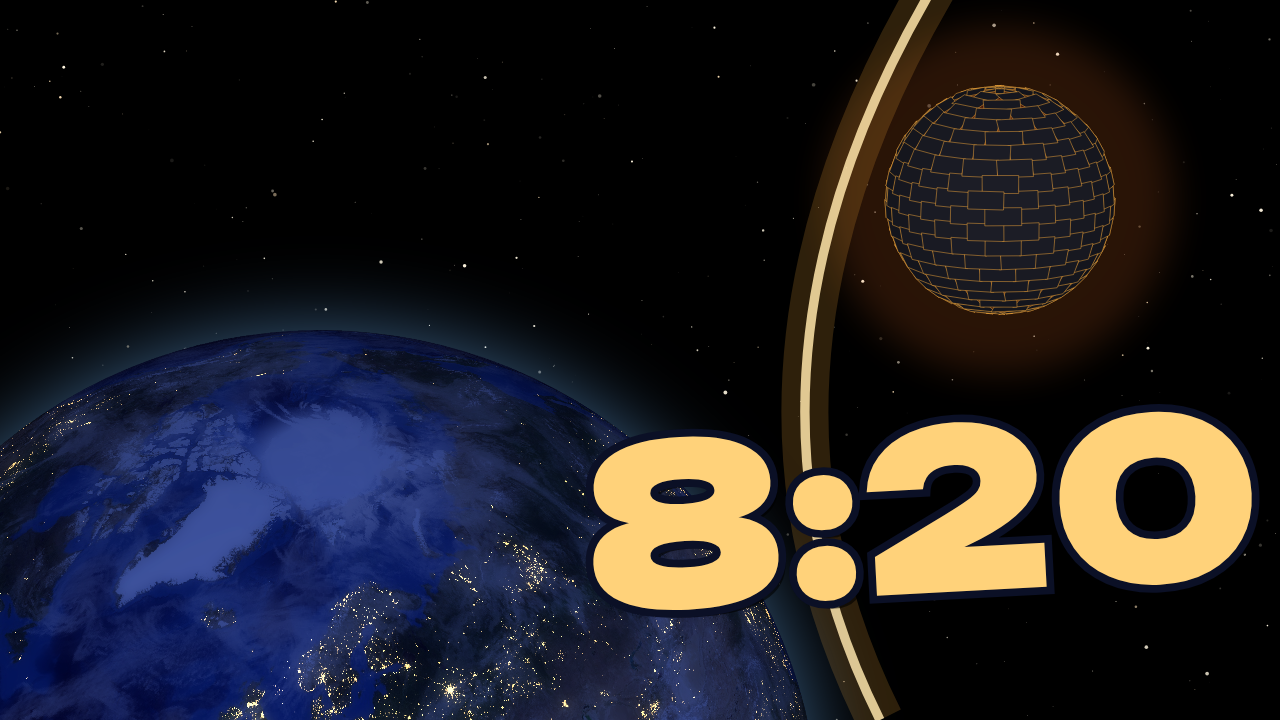
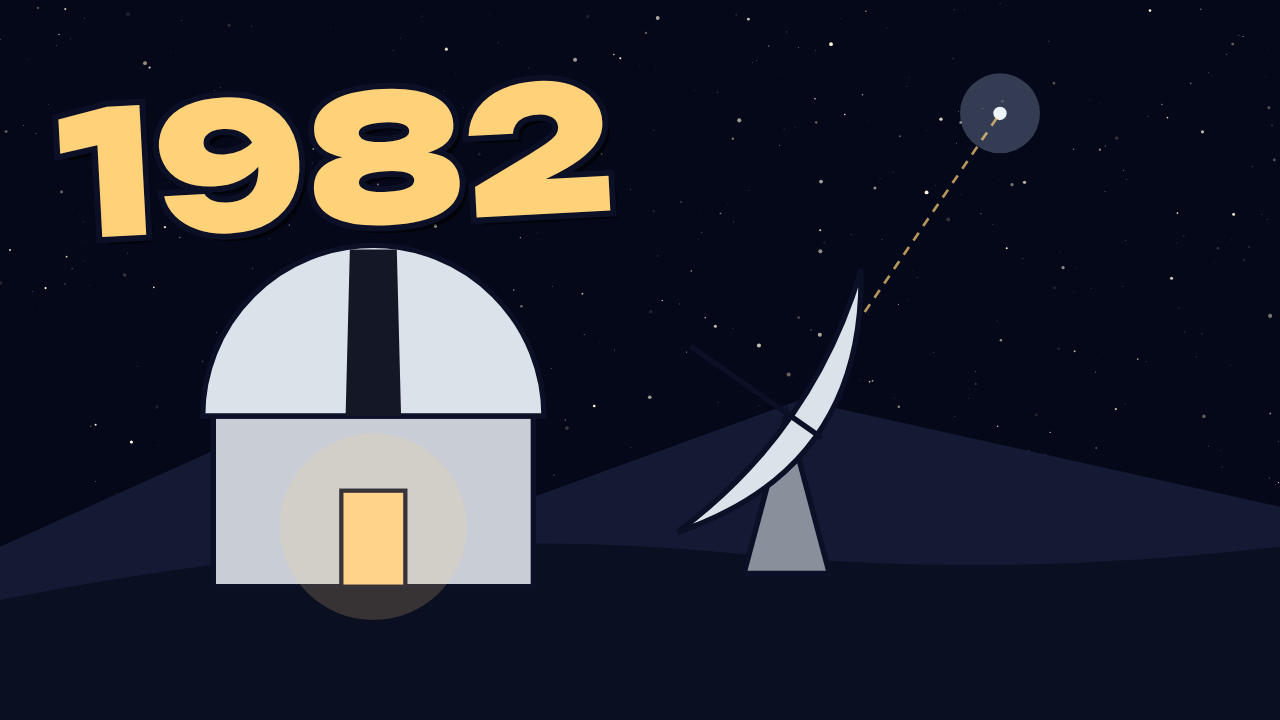
v3 thumbnails (HE KNEW, 1982), logic audit for the 44-year knock, README
Claude-Session: https://claude.ai/code/session_017eRNjaGH56ZJV1uMt2bRFo

diff --git a/src/env/sun/thumbnail.tsx b/src/env/sun/thumbnail.tsx
@@ -111,52 +111,64 @@ const BigWords: React.FC<{words: {t: string; size: number; col: string}[]; x: nu
   </g>
 );
 
-/** Thumbnail B: Mira's face in the gold of the one-second Sun. "1 SECOND". */
+/** Thumbnail B: one face, two times. Left, old Mr. Ito in starlight; right, the same man at 30 in a 1982 sunrise. "HE KNEW". */
 export const SunThumbnailB: React.FC = () => (
   <AbsoluteFill style={{background: '#000'}}>
     <svg viewBox="0 0 1920 1080" width="100%" height="100%">
       <defs>
-        <linearGradient id="goldsky" x1="0" y1="0" x2="0" y2="1">
-          <stop offset="0" stopColor="#FFE3A0" />
-          <stop offset="0.45" stopColor="#FFB13B" />
-          <stop offset="1" stopColor="#5A2A10" />
+        <clipPath id="leftHalf">
+          <rect x={0} y={0} width={760} height={1080} />
+        </clipPath>
+        <clipPath id="rightHalf">
+          <rect x={760} y={0} width={1160} height={1080} />
+        </clipPath>
+        <linearGradient id="dawnTh" x1="0" y1="0" x2="0" y2="1">
+          <stop offset="0" stopColor="#F2B07A" />
+          <stop offset="1" stopColor="#FFE2A8" />
         </linearGradient>
-        <radialGradient id="facelight" cx="0.5" cy="0.5" r="0.5">
-          <stop offset="0" stopColor="#FFE9B0" stopOpacity={0.55} />
-          <stop offset="1" stopColor="#FFB13B" stopOpacity={0} />
-        </radialGradient>
       </defs>
-      <rect width={1920} height={1080} fill="url(#goldsky)" />
-      <circle cx={1660} cy={150} r={260} fill="#FFFBE8" opacity={0.45} filter="blur(30px)" />
-      <circle cx={1660} cy={150} r={95} fill="#FFFDF4" />
-      {Array.from({length: 12}, (_, i) => {
-        const a = (i / 12) * Math.PI * 2;
-        return <path key={i} d={`M${1660 + Math.cos(a) * 120},${150 + Math.sin(a) * 120} L${1660 + Math.cos(a) * 1600},${150 + Math.sin(a) * 1600}`} stroke="#FFF6D0" strokeWidth={30} opacity={0.12} />;
-      })}
-      <FrozenSkyline base={1000} seed={31} col="#7A4A22" />
-      <Toon d={CAST.mira} s={state(700, 1370, 6.4, 'awe', {turn: 0.3, look: [0.8, -1], outfit: 'cold', pose: POSES.stand})} />
-      <ellipse cx={720} cy={520} rx={420} ry={360} fill="url(#facelight)" style={{mixBlendMode: 'screen'}} />
-      <BigWords words={[{t: '1', size: 360, col: '#FFFFFF'}, {t: 'SECOND', size: 170, col: '#FFFFFF'}]} x={1860} y={300} anchor="end" tilt={-4} />
+      <g clipPath="url(#leftHalf)">
+        <rect width={1920} height={1080} fill="#060A1E" />
+        <Stars frame={0} count={300} w={1920} h={1080} seed={11} maxR={2.4} />
+        <Toon d={CAST.ito} s={state(760, 1640, 5.59, 'sad', {turn: 0.1, look: [0.2, 0.2], outfit: 'cold'})} />
+      </g>
+      <g clipPath="url(#rightHalf)">
+        <rect width={1920} height={1080} fill="url(#dawnTh)" />
+        <circle cx={1700} cy={260} r={130} fill="#FFFBE8" />
+        <Toon d={CAST.itoYoung} s={state(760, 1640, 5.2, 'smile', {turn: 0.1, look: [0.2, 0.2], outfit: 'home'})} />
+      </g>
+      <path d="M760,0 L760,1080" stroke="#FFF6E0" strokeWidth={8} />
+      <BigWords words={[{t: 'HE', size: 230, col: '#FFFFFF'}, {t: 'KNEW', size: 230, col: '#FFB13B'}]} x={1880} y={480} anchor="end" tilt={-3} />
     </svg>
   </AbsoluteFill>
 );
 
-/** Thumbnail C: the night side of Earth, the caged Sun beyond it, the last light on its way. "8:20". */
+/** Thumbnail C: a small observatory on a mountain at night, one window lit, the dish aimed at one star. "1982". */
 export const SunThumbnailC: React.FC = () => (
   <AbsoluteFill style={{background: '#000'}}>
-    <svg viewBox="0 0 1920 1080" width="100%" height="100%" style={{position: 'absolute'}}>
-      <Stars frame={0} count={420} w={1920} h={1080} seed={9} maxR={2.4} />
-      <circle cx={1500} cy={300} r={260} fill="#FF7A2A" opacity={0.16} filter="blur(28px)" />
-      <Shell cx={1500} cy={300} r={170} turn={1} spin={0.5} seam={0.9} frame={10} />
-      {/* the last light: a bright wavefront between them, darkness behind it */}
-      <path d="M1320,1080 Q1060,560 1400,-20" stroke="#FFF1C2" strokeWidth={14} fill="none" opacity={0.85} />
-      <path d="M1320,1080 Q1060,560 1400,-20" stroke="#FFB13B" strokeWidth={70} fill="none" opacity={0.18} />
-    </svg>
-    <div style={{position: 'absolute', left: -180, top: 330, filter: 'drop-shadow(0 0 40px rgba(111,184,255,0.5))'}}>
-      <PhotoGlobe size={1000} center={[10, 42]} sun={null} lights={1} ice={80} nightLift={0.6} />
-    </div>
-    <svg viewBox="0 0 1920 1080" width="100%" height="100%" style={{position: 'absolute'}}>
-      <BigWords words={[{t: '8:20', size: 330, col: '#FFD27A'}]} x={1880} y={560} anchor="end" tilt={-3} />
+    <svg viewBox="0 0 1920 1080" width="100%" height="100%">
+      <rect width={1920} height={1080} fill="#050818" />
+      <Stars frame={0} count={600} w={1920} h={1080} seed={41} maxR={2.6} />
+      <circle cx={1500} cy={170} r={10} fill="#FFFFFF" />
+      <circle cx={1500} cy={170} r={60} fill="#BFD8FF" opacity={0.25} />
+      <path d="M1180,640 L1500,170" stroke="#FFD27A" strokeWidth={4} strokeDasharray="14 12" opacity={0.7} />
+      <path d="M0,820 L400,640 L760,760 L1200,600 L1920,760 L1920,1080 L0,1080 Z" fill="#141A33" />
+      <path d="M0,900 Q600,780 1100,830 Q1500,870 1920,820 L1920,1080 L0,1080 Z" fill="#0B0F22" />
+      <g transform="translate(560,880) scale(1.6)">
+        <rect x={-150} y={-160} width={300} height={160} fill="#C9CED6" stroke="#0B1026" strokeWidth={5} />
+        <path d="M-160,-160 A160,160 0 0 1 160,-160 Z" fill="#DCE2EA" stroke="#0B1026" strokeWidth={5} />
+        <path d="M-22,-316 L22,-316 L26,-160 L-26,-160 Z" fill="#141826" />
+        <rect x={-30} y={-90} width={60} height={90} fill="#FFD58A" stroke="#0B1026" strokeWidth={4} />
+      </g>
+      <g transform="translate(1180,860) scale(1.6)">
+        <path d="M-40,0 L0,-150 L40,0 Z" fill="#8A8F9C" stroke="#0B1026" strokeWidth={5} />
+        <g transform="translate(0,-150) rotate(-55)">
+          <path d="M-150,-20 Q0,90 150,-20 Q0,30 -150,-20 Z" fill="#DCE2EA" stroke="#0B1026" strokeWidth={5} />
+          <path d="M0,40 L0,-110" stroke="#0B1026" strokeWidth={5} />
+        </g>
+      </g>
+      <circle cx={560} cy={790} r={140} fill="#FFD58A" opacity={0.18} />
+      <BigWords words={[{t: '1982', size: 260, col: '#FFD27A'}]} x={80} y={120} anchor="start" tilt={-3} />
     </svg>
   </AbsoluteFill>
 );

diff --git a/docs/10-sun01-logic-audit.md b/docs/10-sun01-logic-audit.md
@@ -1,4 +1,4 @@
-# 10 · File 001 logic audit — "The Sun Went Out" (v2.1)
+# 10 · File 001 logic audit — "The Sun Went Out" (v3)
 
 Every question a sharp viewer could type into the comments, answered before we publish. If a claim
 in the script can't be defended here, it gets cut or fixed. Script: `episodes/sun01-the-sun-went-out/script.ts`.
@@ -10,6 +10,17 @@ every element of it turned and opened at once. The Sun's **mass** is still there
 **light** is caught by the shell and beamed away, so Earth freezes. The shell has to shed a small fraction of
 that power as waste heat, which is why a thermal camera can see it. The family deduces each of these facts from
 real evidence, in order.
+
+## v3 story logic: the knock (the episode's twist)
+| Question a viewer will ask | Answer |
+|---|---|
+| Why does the shell close *now*? | In 1982 young Haruki Ito found three straight lines in eclipse plates (1919 onward), worked out that the swarm's rings share one axis pointing at a star **22 light-years** away, and sent it a radio knock (1, 2, 3). Radio travels at light speed: 22 years there, 22 back. 1982 + 44 = **2026**. The shell closed when the answer arrived. |
+| Why was Ito ready at 6:52? | He knew the year, not the day. N: "a bag he'd packed the night before"; he watched every sunrise for 44 years to check it was still there. |
+| Why does the count only come on Day 365? | It doesn't. It has been knocking back since Day 0, on the frequency Ito used in 1982. Nobody's radio was listening there. Ito spent the year building a receiver ("Something to listen with") and points it at the Sun on Day 365. Then he tells the world and everyone retunes. |
+| Is it counting planets? | That is the family's first (natural) reading: 1, 2, 3 then silence, so Mercury, Venus, Earth. It is actually Ito's own rhythm (1 / 2-2 / 3-3-3) echoed back. The audio and the Morse close-ups match on purpose. |
+| Where does the beam go? | To that same star, out of the planets' plane. Ito recognises it on Day 300 and whispers "Twenty-two". |
+| Is the timeline consistent for Ito? | 30 in 1982, so 74 in 2026, so he is still a retired astronomer and still has the brass telescope (shown in both timelines). |
+| What about the earlier logic (Venus, tides, the slats)? | Unchanged and still audited below. The 8:20 race and the one-second Sun were cut in v3: the family could not see the first, and the second was unclear. |
 
 ## The shell: how something that size can close in one second (v2.1)
 The obvious objection: *the Sun is enormous; nobody could build a shell around it in a morning.* Correct, and
@@ -88,7 +99,7 @@ Notes:
 - **Aurora.** Coronal mass ejections take 1–4 days to arrive. A storm launched about 1 day before the shell closed arrives on Day 3, which matches "left the Sun four days ago" (Day 3 + 1 day before). Earth's magnetic field is unaffected, so an aurora is possible. The city is at about 55° N and the storm is strong, so a visible overhead aurora is plausible (as at 55° N in May 2024).
 - **The Moon goes dark.** It has no light of its own. A waning crescent in the morning sky becomes a black sliver against the stars (rendered as a faint earthshine-free silhouette).
 - **The fire.** On Day 7 the neighbour behind door 3B (same landing) burns furniture indoors: smoke you can see, carbon monoxide you can't (the real winter killer). Everyone evacuates.
-- **The one-second Sun.** One band of the shell turns back open for 1 s; the light arrives about 8 minutes later, hence "Eight minutes later". The narrator cuts from the space shot to the surface, matching the delay.
+- **The one-second Sun** was cut in v3 (it was unexplained on screen).
 - **Phones.** The networks jam from load in the first minute (it happens at every mass event). The grid stays up until Day 7, so phones still charge.
 - **Lighting.** After 06:52 it is always night. On-screen light sources are only torches, candles, streetlights (until Day 7), the aurora, station lamps, the radio dial, the thermal screen and the one-second flash. No unmotivated daylight.
 

diff --git a/README.md b/README.md
@@ -4,18 +4,22 @@
 
 A YouTube channel of animated space-science survival stories built for **8–12 minute episodes** (mid-roll eligible). Every video is made from code with [Remotion](https://remotion.dev): the narration is voiced locally with Kokoro-82M (Apache-2.0), and the score is synthesised from scratch.
 
-**Launch episode: File 001, "The Sun Went Out. Here's Your Day 1 to Day 365" (v2.1)** is in `renders/`:
-- `sun01.mp4`: about 8:40, 1080p web copy with soft English subtitles. The upload master `sun01-hq.mp4` is git-ignored.
-- **The story:** at 6:44 a shell around the Sun closes. It wasn't built that morning: it had been there for a century, furled edge-on like an open blind, and someone closed it. You, your sister Mira, Biscuit the dog and Mr. Ito, the astronomer upstairs, survive the freeze and solve it in six reveals, each proven from real evidence: light delay, tides, a thermal camera, the blind, an energy beam, a signal. It ends on a cliffhanger into Part 2.
-- **Built to the genre's numbers:**
-  - 140 shots at about 3.6 s each
-  - a development every 30 s or less, two mid-video re-hooks, and 14 laughs
-  - true whip pans, a Day tag with a year bar, and characters who look at whoever is talking
-  - every prop drawn to real-world scale (see `ScaleLab`)
-  - Foley, a real NASA Earth, and voices by Kokoro (Mr. Ito on a British voice)
-  - an original synthesised score with a recurring "shell" motif
-- `sun01.srt` (captions), `sun01-described.srt` (with stage directions), three thumbnails for YouTube's Test & Compare (`sun01-thumbnail.png`, `-b`, `-c`), and `sun01-metadata.md` (title, description with chapters and 14 science sources, tags, mid-roll times, end-screen layout, pinned comment)
-- Format, cast and review gates: [`docs/09-series-bible.md`](docs/09-series-bible.md). Logic audit, shell physics and the Episode 2 answer: [`docs/10-sun01-logic-audit.md`](docs/10-sun01-logic-audit.md). Script: `episodes/sun01-the-sun-went-out/script.ts`.
+**Launch episode: File 001, "The Sun Went Out. Day 1 to Day 365" (v3)** is in `renders/`:
+- `sun01.mp4`: about 9:30, 1080p web copy with soft English subtitles. The upload master `sun01-hq.mp4` is git-ignored.
+- **The story:** grown-up Mira tells the year she was eight and the Sun went out. With her brother Kai, their dog Biscuit and Mr. Ito, the retired astronomer upstairs, she works it out clue by clue: light delay, tides, a thermal camera, a shell that was always there, a beam to one star. Intercut, unnarrated, a young astronomer works through one night in a mountain observatory. The twist: it is 1982, he is Mr. Ito, and the shell's "count" is his own knock coming back.
+- **Craft:**
+  - 162 shots at about 3.5 s each, a development every ≤30 s, and seven turns
+  - a first-person narrator and named characters with their own voices (Kai and Mum added)
+  - a silent second timeline, lint-gated against early reveals
+  - real-world scale, and nobody floating (auto seats, grounded poses, attached piggybacks)
+- Also in `renders/`:
+  - `sun01.srt` (captions) and `sun01-described.srt`
+  - three thumbnails for YouTube's Test & Compare: `sun01-thumbnail.png` WHO BUILT THIS?, `-b` HE KNEW and `-c` 1982
+  - `sun01-metadata.md` (title, description with chapters and sources, tags, mid-rolls, end screen, pinned comment)
+- **Docs:**
+  - screenplay, clue map and cause→effect links: [`docs/11-sun01-v3-screenplay.md`](docs/11-sun01-v3-screenplay.md)
+  - series bible (12 standalone Files, narrators, casts, ElevenLabs voice and music casting): [`docs/09-series-bible.md`](docs/09-series-bible.md)
+  - physics: [`docs/10-sun01-logic-audit.md`](docs/10-sun01-logic-audit.md)
 
 **Earlier pilot, "What If Everything You Touched Lost Its Gravity?"** (the Zero-G episode, held for a later slot):
 - `ep01.mp4`: ~9:10, 1080p (web-size copy). No voiceover yet; it has an original score and SFX.
